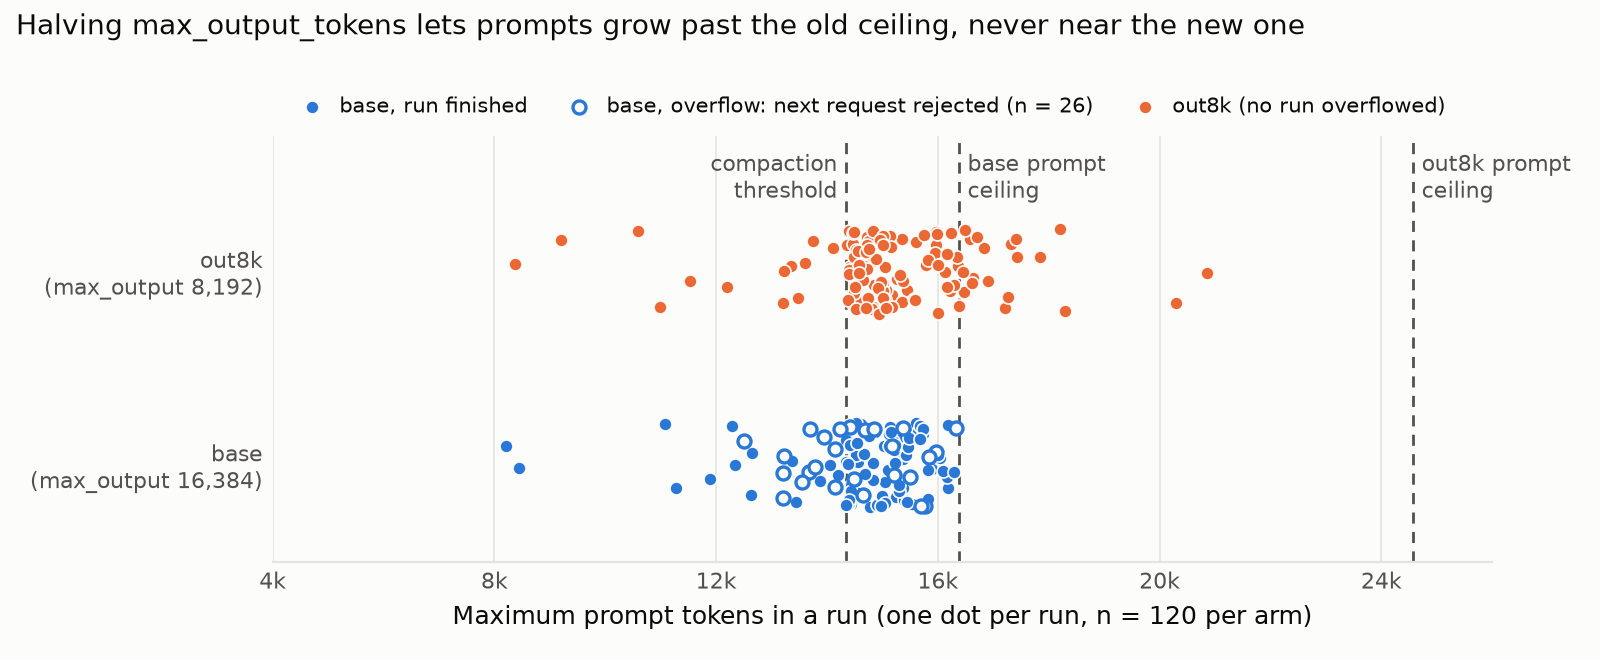
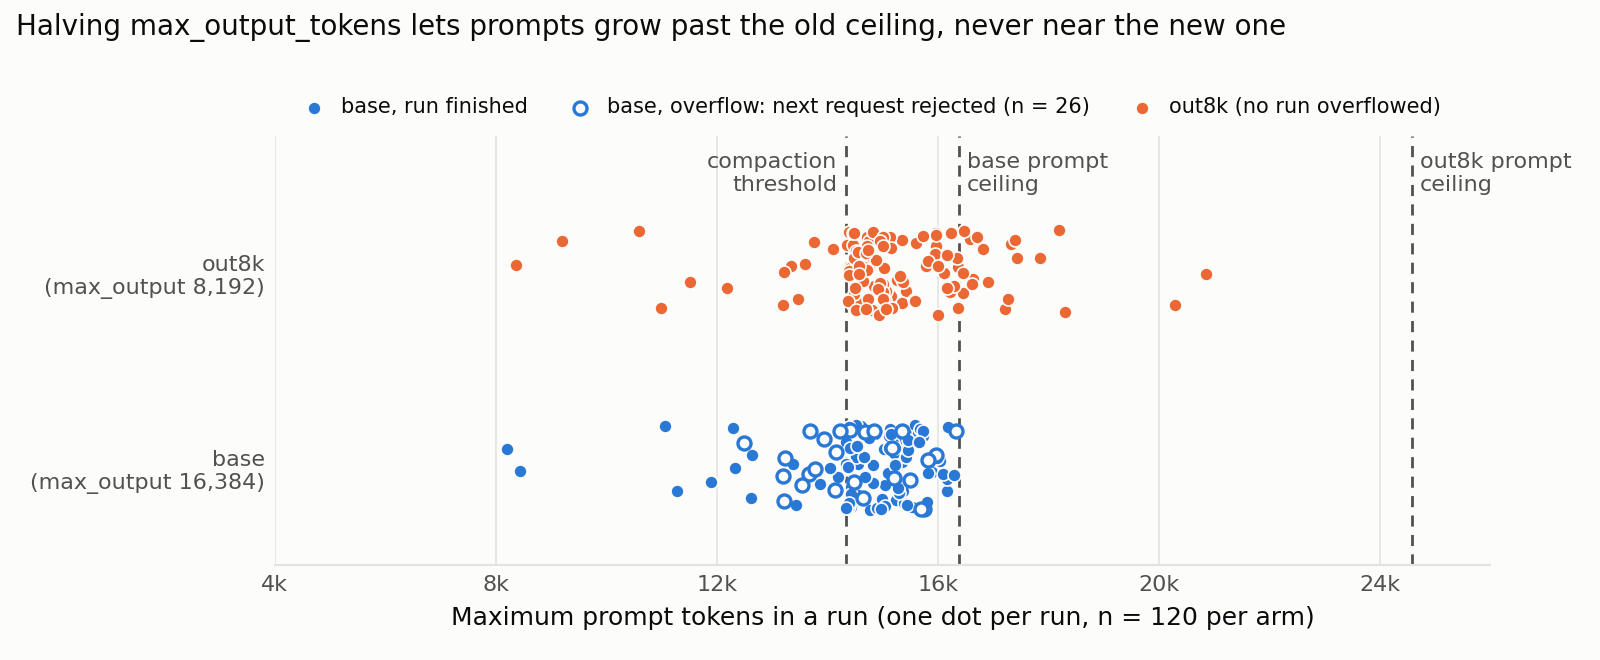
README: list reusable resources; figure from the notebook output

diff --git a/README.md b/README.md
@@ -22,6 +22,45 @@ Reproduction notebook: https://www.kaggle.com/code/bsw0610/what-limits-a-small-m
 
 Details and limits are in `reports/`, starting with `reports/harness_0_2_11_recheck.md`.
 
+## Reusable resources
+
+These work outside this paper, and the three scripts use only the Python standard library.
+
+| Resource | What it does | Needs |
+|---|---|---|
+| `skill/localize-code/` | Ranks a Python repository's functions and classes against issue text (BM25 over `ast` spans) and prints the top symbols and files in under 4,000 characters. Copy the folder into a submission's `skills/`. | Any Python repository |
+| `analysis/gold_core.py` | Maps each changed line of a unified diff to the innermost enclosing `def` or `class` of the base file, so localisation can be scored by symbol. | The patch and the base file |
+| `analysis/trace_metrics.py` | Reads one harness trace and reports when the agent first mentioned, read, displayed the lines of and edited a gold file, and whether it called the skill. | A trace and `tasks.jsonl`; tested on traces from `swegemma` 0.2.7 |
+| `results/c3_run_rows.csv` | Outcomes and token counts for 320 runs of the reference agent without its LoRA adapter and sub-agent (120 tasks in two arms, 40 of them repeated), to compare your own agent against. Trace metrics cover the first repetition. | Nothing |
+
+```bash
+# Rank a repository's functions and classes against an issue
+python3 skill/localize-code/scripts/localize.py --root /path/to/repo "issue text"
+```
+
+```bash
+# Measure one run
+python3 analysis/trace_metrics.py trace_<id>.json <id> data/raw/tasks.jsonl
+```
+
+```bash
+# Run the gold rule's regression cases
+python3 analysis/test_gold_core.py
+```
+
+```python
+import sys; sys.path.insert(0, "analysis")
+from gold_core import parse_patch, attribute
+
+hunks = parse_patch(patch)["pkg/mod.py"]
+list(attribute(hunks, base_source))  # [(0, 'A.f', 'def', 3, 'replace')]: hunk, symbol, kind, line, block type
+```
+
+Evidence and limits:
+- **Skill.** Offline, an in-graph gold symbol is in its top 15 for 51.3% of 115 tasks. The reference agent did not call it in 8 runs, so check your own traces to see whether your agent does.
+- **Gold rule.** 14 regression cases, and a mutation test on all 129 snapshots (`kaggle/gold_mutation/`) attributes 1,821 of 1,821 synthetic patches correctly.
+- **Trace metrics.** They measure access, not understanding, and do not parse shell output beyond checking that it is non-empty.
+
 ## Layout
 
 | Path | Contents |
